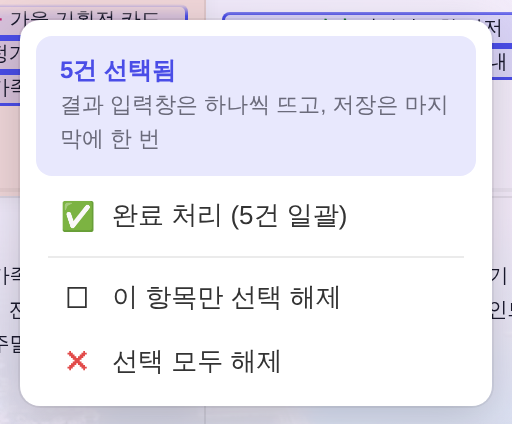
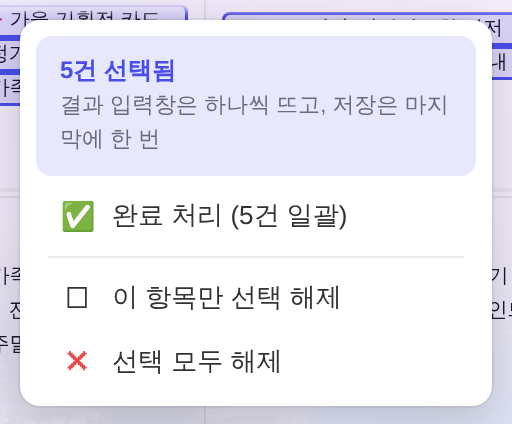
전후 보고서·이력 실측치를 새 base(origin/main) 기준으로 재측정
리베이스로 base가 바뀌어(#616~#618 머지) 「전」 판본이 달라졌다 —
같은 하네스를 origin/main:index.html에 다시 걸어 재측정하고, 캡처 8컷도
그 판본으로 다시 찍었다.

- 전(origin/main) 단건 5회 = 재조회 5 · 5,567ms
- 후 단건 5회 = 재조회 5 · 5,441~6,105ms (종전 경로 무변)
- 후 일괄 5건 = 재조회 1 · 3,344~3,527ms
- 선택 0건 캘린더 스냅샷 전/후 픽셀 동일(md5) — 새 base에서도 유지

벽시계는 스크립트 입력 시간이 섞여 회차 편차 ±10%라 단정할 값은
재조회 횟수(5→1)로 적었다.

Claude-Session: https://claude.ai/code/session_011PsV6dHPnfe5R5QPcnahCU

Changed region(s): [[0.0, 0.0, 0.4062, 0.4599]]

diff --git a/docs/reports/260805_캘린더_일괄완료_전후/index.html b/docs/reports/260805_캘린더_일괄완료_전후/index.html
@@ -59,15 +59,17 @@
 
 <h2>4. 실측 — 재조회 5회 → 1회</h2>
 <p class="dim">같은 하네스에서 <b>5건</b>을 처리시키고 <code>/api/records</code> GET(=시트 재조회) 호출을 셌다.
-시트 왕복 지연은 GET 220ms · PATCH 260ms로 흉내(보수적 하한). 「전」은 <code>git show HEAD:index.html</code>.</p>
+시트 왕복 지연은 GET 220ms · PATCH 260ms로 흉내(보수적 하한). 「전」은 <code>git show origin/main:index.html</code>(= 이 브랜치의 base).</p>
 <table>
-<tr><th>경로</th><th>PATCH</th><th>재조회(GET)</th><th>벽시계</th></tr>
-<tr><td>전(HEAD) — 단건 5회</td><td>5</td><td class="c2"><b>5</b></td><td>5,568ms</td></tr>
-<tr><td>후 — 단건 5회 <span class="dim">(회귀 확인)</span></td><td>5</td><td>5</td><td>5,521ms</td></tr>
-<tr><td><b>후 — 일괄 5건</b></td><td>5</td><td class="c3"><b>1</b></td><td><b>3,429ms</b></td></tr>
+<tr><th>경로</th><th>PATCH</th><th>재조회(GET)</th><th>벽시계 <span class="dim">(회차)</span></th></tr>
+<tr><td>전(origin/main) — 단건 5회</td><td>5</td><td class="c2"><b>5</b></td><td>5,567ms</td></tr>
+<tr><td>후 — 단건 5회 <span class="dim">(회귀 확인)</span></td><td>5</td><td>5</td><td>5,441 / 5,603 / 6,105ms</td></tr>
+<tr><td><b>후 — 일괄 5건</b></td><td>5</td><td class="c3"><b>1</b></td><td><b>3,344 / 3,523 / 3,527ms</b></td></tr>
 </table>
-<p class="dim">단건 경로는 전/후가 <b>같은 수치</b>(재조회 5·5.5s) = 종전 경로 무변. 일괄은 <b>재조회 5→1(−80%)</b>·벽시계 −38%.
-PATCH 자체는 건마다 필요하므로 줄지 않는다(줄이려면 Worker에 일괄 엔드포인트를 새로 파야 하는데, 이번 지시 범위 밖이라 안 건드렸다 — §7).</p>
+<p class="dim">단건 경로는 전/후가 <b>같은 수치</b>(재조회 5 · 5.4~6.1s 대역) = 종전 경로 무변.
+일괄은 <b>재조회 5→1</b>. 벽시계는 스크립트 입력 시간이 섞여 회차 편차가 ±10% 있어 <b>단정할 값은 재조회 횟수</b>고,
+시간은 「같은 조건에서 5.5s대 → 3.4s대」 정도로 읽으면 된다.<br>
+PATCH 자체는 건마다 필요하므로 줄지 않는다 — 줄이려면 Worker에 일괄 엔드포인트를 새로 파야 하는데 이번 지시 범위 밖이라 안 건드렸다(§7).</p>
 <div><div class="lb"><b>처리 후</b> — 5건이 취소선으로 바뀌고 날짜별 카운터도 <code>0/3 → 3/3</code>, <code>0/3 → 2/3</code>로 갱신</div>
 <img src="after_done.png" alt="후 처리 결과: 5일 3건·6일 2건이 취소선 처리되고 카운터가 3/3, 2/3으로 바뀐 캘린더"></div>
 

diff --git a/docs/작업이력.md b/docs/작업이력.md
@@ -3077,13 +3077,13 @@
 - **설계 = 「선택은 여럿 · 명령은 한 번 · 창만 순차 · 저장은 한 묶음」**: ① `_evSelClick`으로 Ctrl(⌘)/Shift+클릭 다중선택(`_evSel` Set) ② 선택된 블록 우클릭 = 선택 전체 메뉴 ③ `adminBulkCompleteSelected()`가 결과창을 **순차로 돌려 값만 모으고**(쓰기 0) ④ 다 모은 뒤 PATCH 연달아 + **재조회·재그리기 1회**.
 - **부수 효과(설계의 결과)**: 쓰기가 마지막에 몰려 있어 **도중 [중단] = 아무것도 저장 안 됨**. 「3건은 이미 들어갔는데 4번째에서 취소」 같은 반쪽 상태가 원리적으로 안 생긴다. 중간 이탈용으로 **[건너뛰기]**(그 건만 제외)·**[나머지 모두 완료]**(결과 입력 접고 남은 전부)를 뒀다 — 후자가 진짜 「명령 한 번」 경로.
 - **결과창 공용화**: 구 `adminCompleteWithResult` 안에 박혀 있던 모달을 `_completeResultPrompt(opts)`로 뽑아 **단건·일괄이 같은 창**을 쓰게 했다. 일괄일 때만 「N / M」·대상 제목 한 줄·[건너뛰기]·[나머지 모두 완료]가 붙고, 단건 창의 입력칸 3종·문구는 무변.
-- **실측(헤드리스 · `?qa=admin` 목데이터 · 시트 왕복 지연 GET 220ms/PATCH 260ms 흉내)**: 전(HEAD) 단건 5회 = PATCH 5·**재조회 5**·5,568ms / 후 단건 5회 = PATCH 5·재조회 5·5,521ms(**종전 경로 무변 확인**) / 후 일괄 5건 = PATCH 5·**재조회 1**·3,429ms. **재조회 −80% · 벽시계 −38%**. PATCH는 건당 1회 그대로 — 그걸 줄이려면 Worker 일괄 엔드포인트 신설이 필요해 범위 밖으로 뒀다(§안 한 것).
+- **실측(헤드리스 · `?qa=admin` 목데이터 · 시트 왕복 지연 GET 220ms/PATCH 260ms 흉내 · 「전」 = 이 브랜치 base인 `origin/main`)**: 전 단건 5회 = PATCH 5·**재조회 5**·5,567ms / 후 단건 5회 = PATCH 5·재조회 5·5,441~6,105ms(**종전 경로 무변 확인**) / 후 일괄 5건 = PATCH 5·**재조회 1**·3,344~3,527ms. **단정할 값은 재조회 5→1** — 벽시계는 스크립트 입력 시간이 섞여 회차 편차 ±10%라 「5.5s대 → 3.4s대」로만 읽는다. PATCH는 건당 1회 그대로 — 줄이려면 Worker 일괄 엔드포인트 신설이 필요해 범위 밖으로 뒀다(§안 한 것).
 - **선택 상태 안전판**: `renderCal()` 끝의 `_evSelPaint()`가 링을 다시 칠하면서 **화면에 없는 선택을 Set에서 지운다** → 달 이동·필터 변경으로 「안 보이는데 선택돼 있어 같이 완료되는」 함정이 원리적으로 성립하지 않음. 실행 시점에도 `_evSelable`로 한 번 더 걸러 「N건 대상 아님」으로 보고한다.
 - **곁다리 결함 1건 수정(이번 지시 밖이지만 같은 자리)**: 일요일 칸 아래 **월요일 서브셀(`.mev`)에 항목 우클릭 핸들러가 없어** 우클릭이 부모 셀로 새고 「새 콘텐츠 등록」 셀 메뉴가 떴다 = **월요일 건만 캘린더에서 완료 처리가 불가능**(신청 목록으로 돌아가야 했다). `.ev`와 같은 계약(`data-ri` + `oncontextmenu`)을 붙여 월요일도 단건·일괄 둘 다 된다.
 - **TDZ 주의(같은 파일 전례 계승)**: `_evSel` **선언만** 위쪽 상태 절(`selected`·`activeFilters` 옆)로 올렸다 — F5 세션복원이 부트 IIFE에서 `initApp`을 「파싱 중」 동기 호출하는 경로(`_salesState` 전례)에서 `renderCal→_evSelPaint`가 TDZ에 물리지 않게. 뒤로 옮기면 되살아난다.
 - **디자인: 신규 색·토큰·컴포넌트 0.** 선택 링 = 셀 선택 `.c.sel`의 문법 계승(inset `--accent` 링 + `--accent-glow` 틴트) · 선택 바 = 갱신 뱃지 `#update-badge`와 같은 알약 기하(색은 토큰만 · 그라데이션 리터럴 미계승) · 일괄 메뉴 머리 = `--accent-light` 블록 · 버튼 = 정본 `.btn` 3종.
 - **raw hex 12 감소(1590 → 1578)**: 결과창을 공용화하며 그 안 인라인 리터럴을 토큰화(`#fff`·`#888`·`#555`×3·`#eee`×3·`#f5f5f5`·`#666`·`rgba(0,0,0,0.4)` → `--surface-solid`·`--dim`·`--neutral-text`·`--border`·`--backdrop`, 인라인 스타일 버튼 2종 → `.btn`). **신규 반입 0** · baseline 갱신 사유는 `tools/check_design.py` 주석에.
-- **회귀 0 실측**: 선택이 0건일 때 캘린더 스냅샷이 **전/후 픽셀 동일**(md5 일치). 일반 사용자는 Ctrl+클릭해도 선택 안 되고 종전 조회 모달 그대로.
+- **회귀 0 실측**: 선택이 0건일 때 캘린더 스냅샷이 **전/후 픽셀 동일**(md5 일치 · base = `origin/main`). 일반 사용자는 Ctrl+클릭해도 선택 안 되고 종전 조회 모달 그대로.
 - **검증**: 헤드리스 회귀 **19/19 PASS**(단건 회귀 3 · 선택 동작 6 · 월요일 서브셀 3 · 중단/건너뛰기 3 · 핵심 경로 3 · 일반 사용자 1). 게이트 = `check_design 1578/1578` ✓ · `check_wiring` ✓ · `check_refs` ✓ · 메인 스크립트 `node --check` ✓.
 - **전후**: `docs/reports/260805_캘린더_일괄완료_전후/index.html` (단건 메뉴 전/후 · 선택 상태 · 선택 바 · 일괄 메뉴 · 결과창 전/후 · 처리 결과 8컷).
 - **안 한 것(범위 밖 · 운영자 판단 대기)**: ㉠ **Worker 일괄 PATCH 엔드포인트** — 쓰기까지 한 번이 되려면 `src/index.js`에 다건 PATCH를 새로 파야 한다. 이번 지시는 화면 조작(선택·명령·창)에 관한 것이라 Worker 무접촉. ㉡ **드래그 박스 선택(러버밴드)** — 드래그는 이미 블록 **이동**(`onEvDragStart`)에 배정돼 있어 제스처가 충돌한다. ㉢ **완료 외 일괄**(취소·보류) — 지시에 없었다. 배선은 `_evSel` 하나만 읽으면 되게 열어뒀다.
